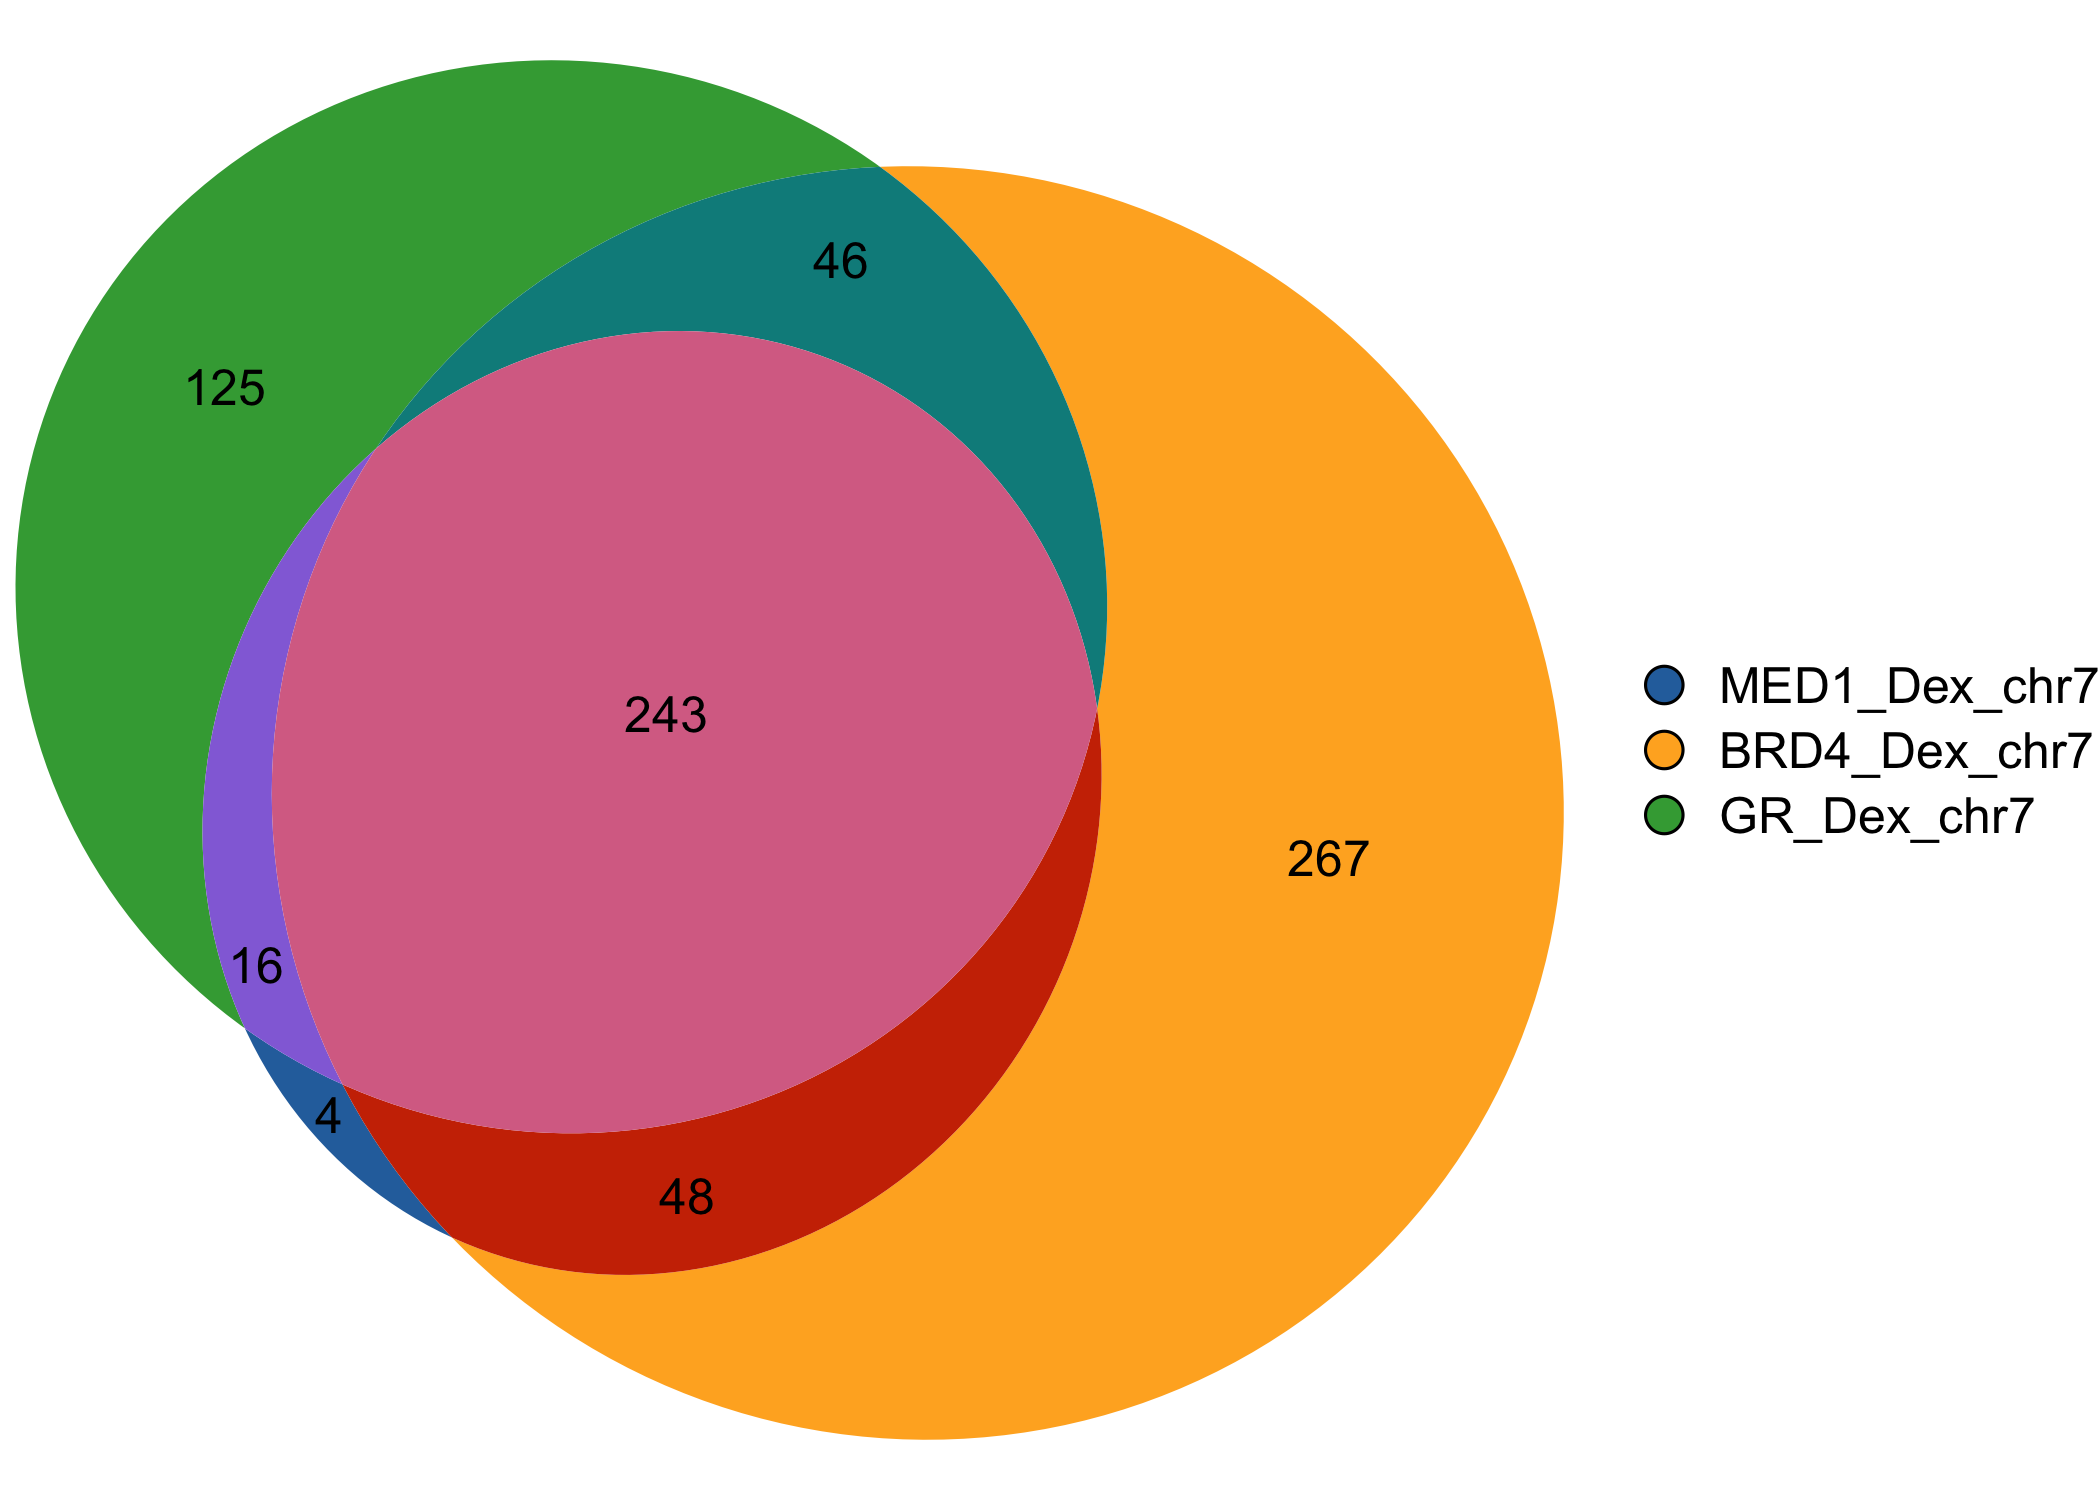
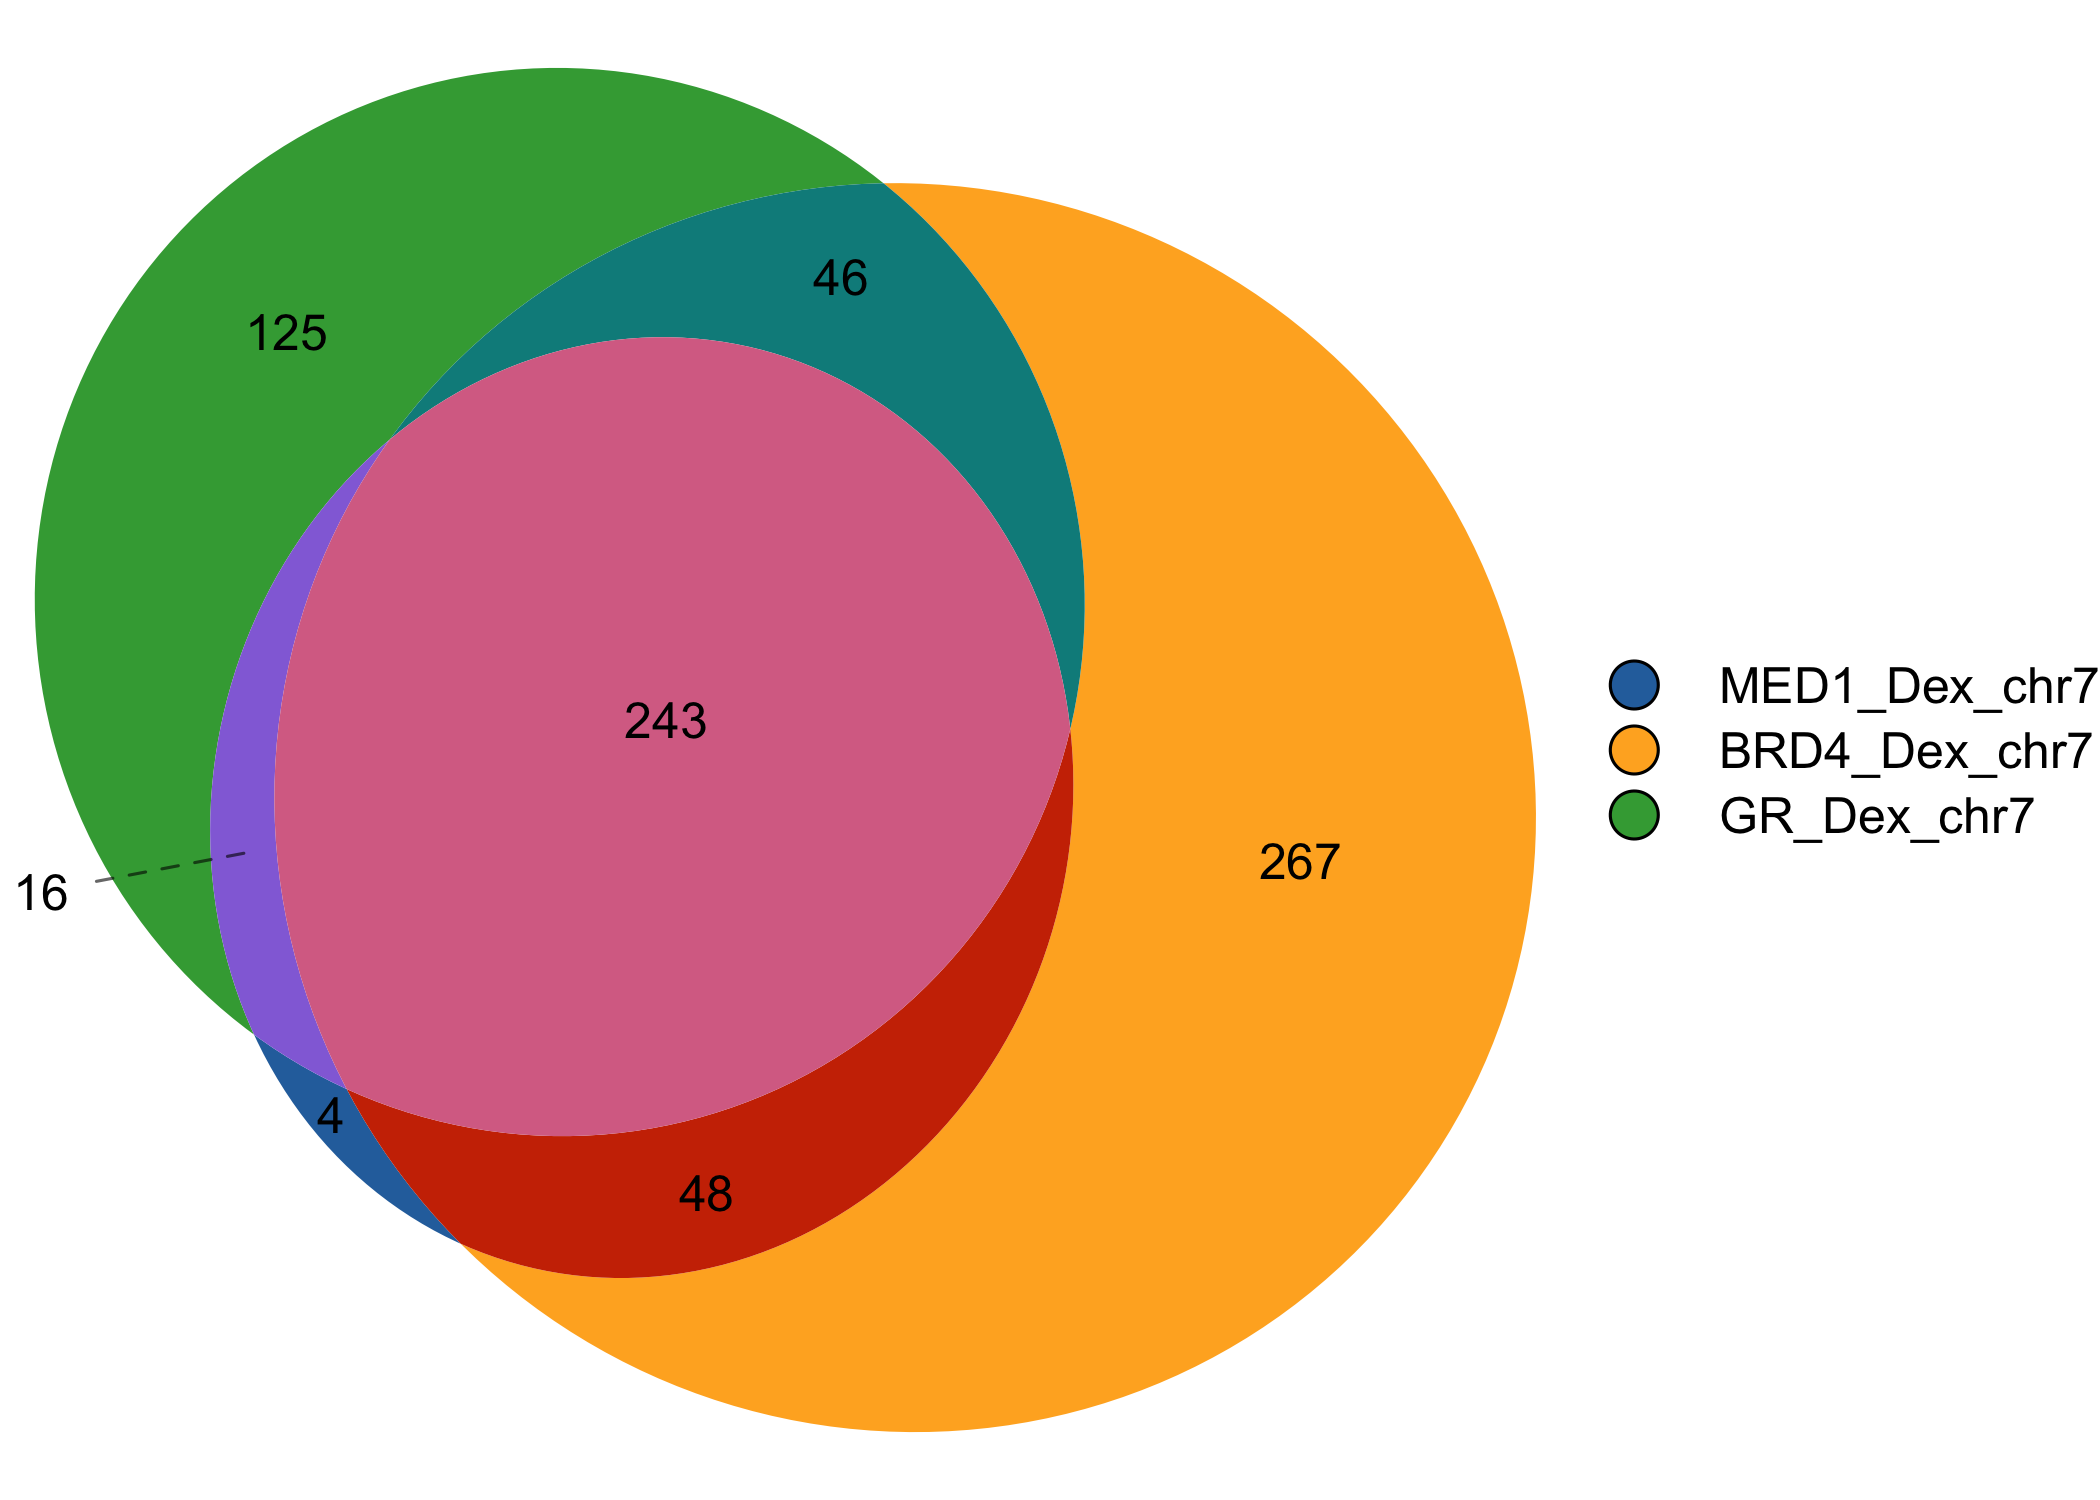
update documentation

diff --git a/README.md b/README.md
@@ -12,7 +12,7 @@
 <img src="man/figures/gVenn_hex_sticker.png" width="175"/>
 </p>
 
-**gVenn** stands for **gene/genomic Venn**.  
+**gVenn** stands for **gene/genomic Venn**.\
 It provides tools to compute overlaps between genomic regions or sets of
 genes and visualize them as Venn diagrams with areas proportional to the
 number of overlapping elements. With seamless support for `GRanges` and
@@ -67,7 +67,7 @@ peaks and visualize them with both a Venn diagram and an UpSet plot.
 ``` r
 library(gVenn)
 
-# Example dataset of ChIP-seq peaks (A549 cell line, 3 set of genomic regions)
+# Example dataset of ChIP-seq peaks (A549 cell line, 3 sets of genomic regions)
 data(a549_chipseq_peaks)
 
 # Compute overlaps
@@ -80,6 +80,8 @@ ov <- computeOverlaps(a549_chipseq_peaks)
 ``` r
 # Draw Venn diagram
 plotVenn(ov)
+#> ✔ Venn diagError = 1.779e-13  (<= 1e-06)
+#>   Access fit diagnostics with attr(<plotVenn output>, "fit_diagnostics")
 ```
 
 <img src="man/figures/README-example_venn-1.png" alt="" width="100%" />
@@ -106,7 +108,8 @@ sapply(groups, length)
 
 In this example:
 
-- 243 reduced regions are shared across all three factors (MED1, BRD4, and GR)
+- 243 reduced regions are shared across all three factors (MED1, BRD4,
+  and GR)
 - 267 reduced regions are unique to BRD4
 - 48 reduced regions are shared between MED1 and BRD4 only
 
@@ -120,7 +123,7 @@ to.
 - A 1 means the element is present in that set, while 0 means absent.
 - The group names in the output are prefixed with “group\_” for clarity.
 
-<div align="center">
+<div data-align="center">
 
 | Group name  | Meaning                       |
 |-------------|-------------------------------|
